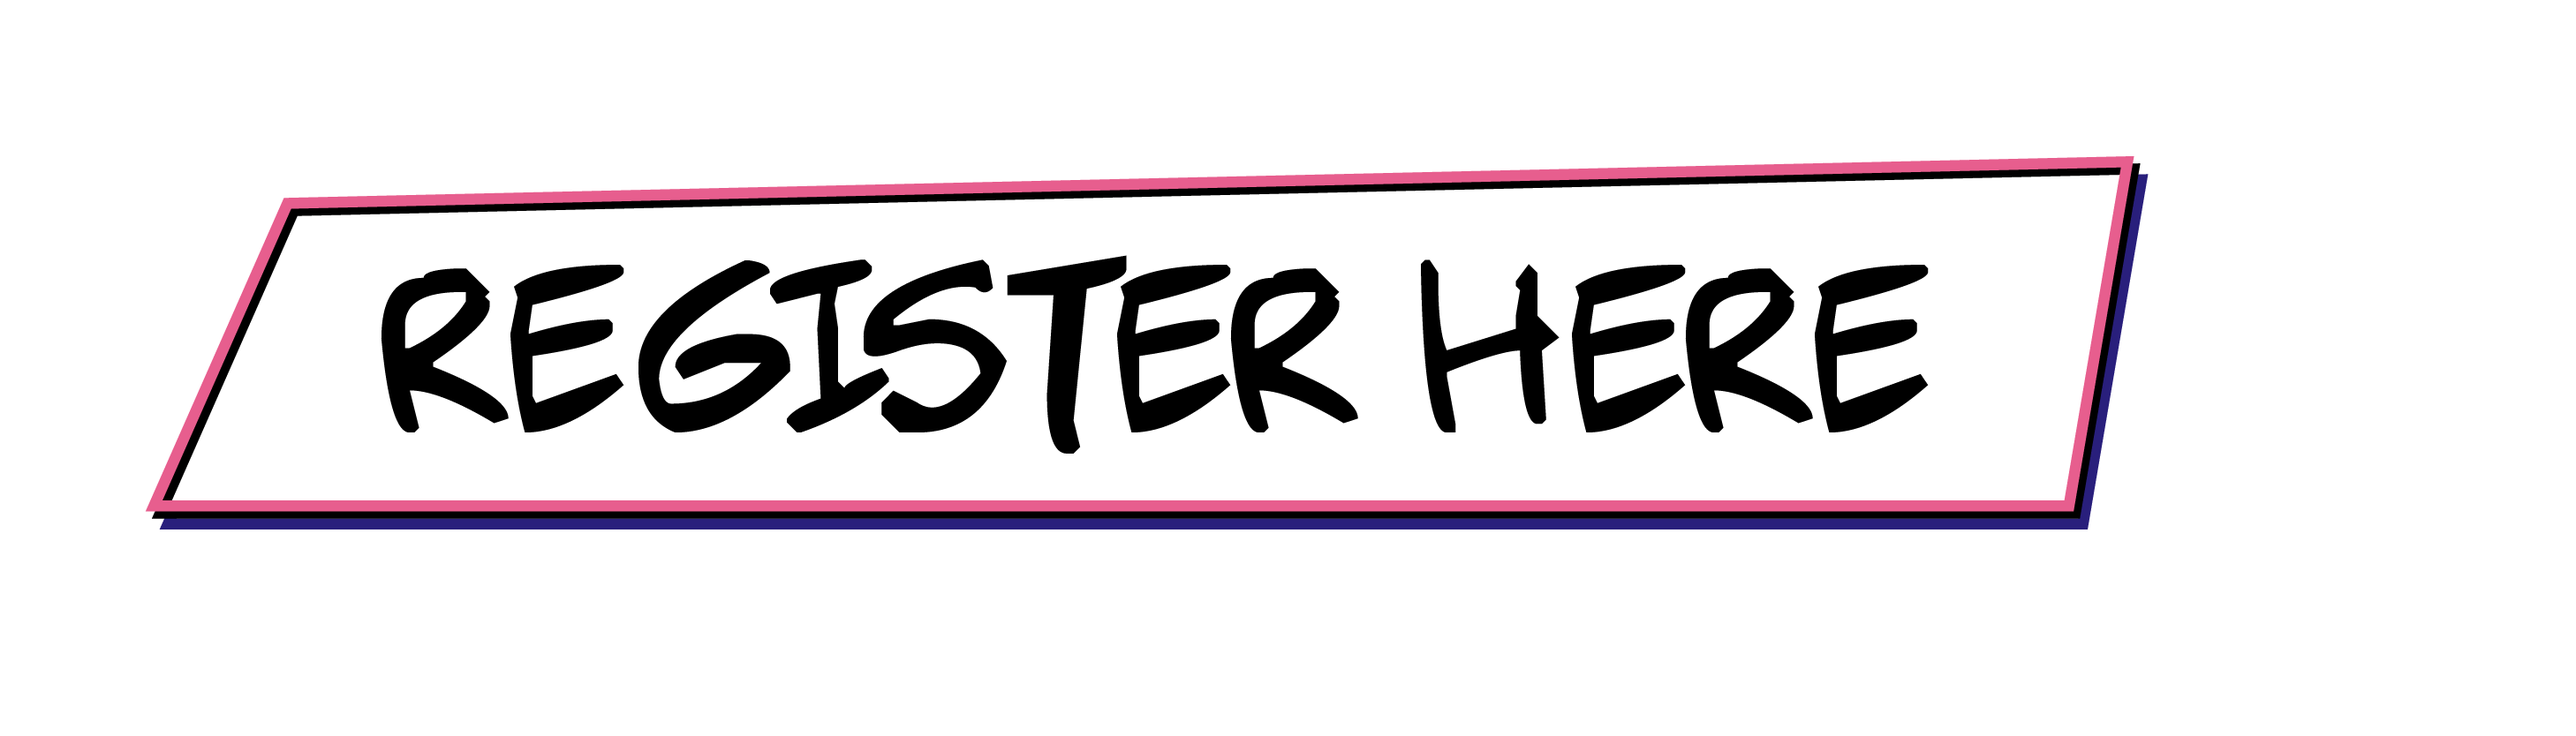
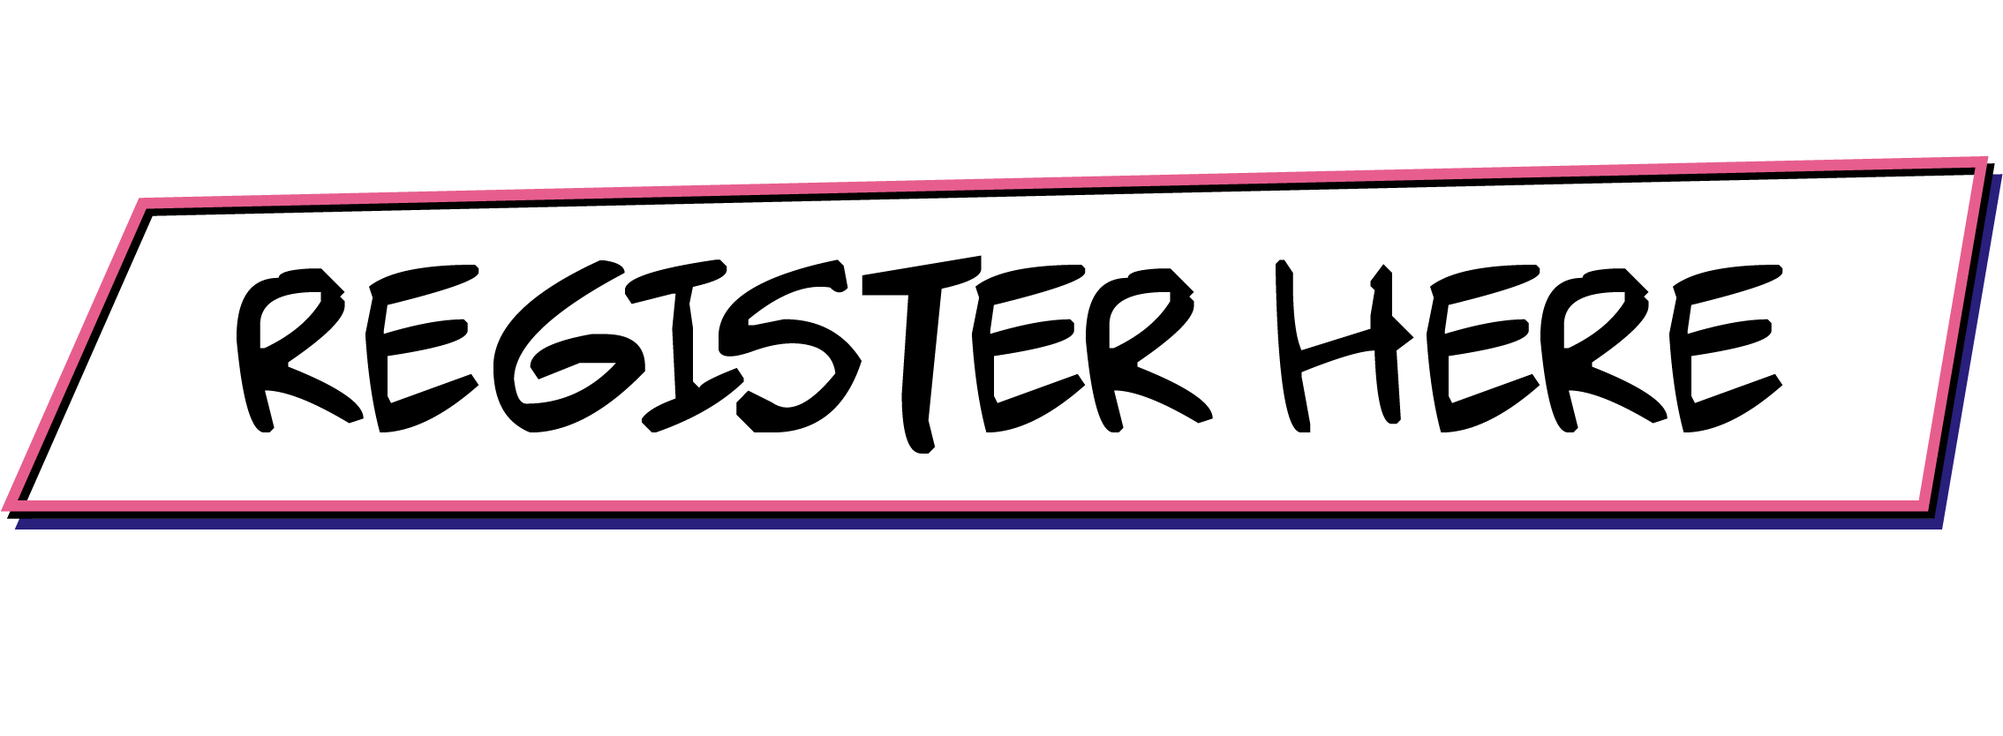
dsafda

Changed region(s): [[0.0, 0.1871, 1.0, 0.717]]

diff --git a/map.html b/map.html
@@ -10,21 +10,26 @@
     </head> 
 <body class="container-fluid p-0 d-flex flex-column">
     <div class="container-fluid p-0 d-flex flex-column">
-        <nav class="navbar bg-body-tertiary " id="navbar">
-            <div class="container p-0 m-0">
-                <div class="navbar d-flex m-1">
-                    <img class="col-3 img-fluid align-self-start" src="./CR.png" alt="Bootstrap" style="max-width:100%; height: auto;">
-                        <div class="d-flex justify-content-end">
-                            <a style="color: white; font-family: AdamWarren;"  href="./index.html" class="m-0 px-1" id="home"> Home </a>
-                            <a style="color: white; font-family: AdamWarren;"  href="./about.html" class="m-0 px-1" id="about"> About </a>
-                            <a style="color: white; font-family: AdamWarren;"  href="./schedule.html" class="m-0 px-1" id="Schedule"> Schedule </a>
-                            <a style="color: white; font-family: AdamWarren;"  href="./collaborators.html" class="m-0 px-1" id="collaborators"> Collaborators </a>
-                            <a style="color: white; font-family: AdamWarren;"  href="./team.html" class="m-0 px-1" id="Team"> Team </a>
-                            <a style="color: white; font-family: AdamWarren;"  href="https://bestcj.ro/" class="m-0" id="3,5"> 3,5% </a>
-                        </div>
+        <nav class="navbar navbar-expand-lg bg-body-tertiary">
+            <div class="container-fluid">
+                <a class="navbar-brand" href="#">
+                    <img class="nav-logo" src="./CR.png" alt="Bootstrap">
+                </a>
+                <button class="navbar-toggler" type="button" data-bs-toggle="collapse" data-bs-target="#navbarNavAltMarkup" aria-controls="navbarNavAltMarkup" aria-expanded="false" aria-label="Toggle navigation">
+                    <span class="navbar-toggler-icon"></span>
+                </button>
+                <div class="collapse justify-content-end navbar-collapse" id="navbarNavAltMarkup">
+                    <div class="navbar-nav">
+                        <a  class="nav-link navigation-tab" aria-current="page" href="./index.html" id="home"> Home </a>
+                        <a  class="nav-link navigation-tab" aria-current="page" href="./about.html" id="about"> About </a>
+                        <a  class="nav-link navigation-tab" aria-current="page" href="./schedule.html" id="Schedule"> Schedule </a>
+                        <a  class="nav-link navigation-tab" aria-current="page" href="./collaborators.html" id="collaborators"> Collaborators </a>
+                        <a  class="nav-link navigation-tab" aria-current="page" href="./team.html" id="Team"> Team </a>
+                        <a  class="nav-link navigation-tab" aria-current="page"  href="https://bestcj.ro/" id="3,5"> 3,5% </a>
                 </div>
+              </div>
             </div>
-        </nav>
+          </nav>
 <br>
 <img src="./comingsoon.png" class="img-fluid" style="max-width: 100%; height: auto;">
      
@@ -33,13 +38,12 @@
     
     
     
-    
-</body>
- <footer class=" text-center text-lg-center footer fixed-bottom">
+
+<footer class=" text-center text-lg-center footer fixed-bottom">
     <div class="d-flex flex-column p-3">
-        <div class="row justify-content-center align-items-center">
-            <img class="img-fluid d-flex col col-3 align-self-center align-items-center" src="./uT.png">
-            <div class="col-6 mb-4 mb-md-0">
+        <div class="row justify-content-center align-items-center mb-2">
+            <img class="img-fluid d-flex col col-3 align-self-center align-items-center footer-img" src="./uT.png">
+            <div class="col-md-3 col-6 mb-4 mb-md-0">
                 <ul class="list-unstyled mb-0">
                     <li>
                         <i class="fa fa-phone" style="color: white;"></i>
@@ -56,21 +60,25 @@
                     </li>
                 </ul>
             </div>
-            <img class="img-fluid d-flex col col-3 align-self-center align-items-center " src="./bEST-CJ.png">
+            <img class="img-fluid d-flex col col-3 align-self-center align-items-center footer-img" src="./bEST-CJ.png">
         </div>
-        <div class="d-flex  row p-0 justify-content-center">
-            <a href="https://www.facebook.com/BESTcluj" class="col-2">
-                <img class="img-fluid" src="./facebook-alb.png">   
+        <div class="d-flex row p-0 justify-content-center mb-2 logo-section">
+            <a href="https://www.facebook.com/BESTcluj" class="col-2 d-flex justify-content-center align-items-center">
+                <img class="img-fluid footer-logo" src="./facebook-alb.png">   
             </a>
-            <a class="col-2" href="https://www.instagram.com/best_clujnapoca/">
-                <img class="img-fluid " src="./instagram-alb.png">
+            <a class="col-2 d-flex justify-content-center align-items-center" href="https://www.instagram.com/best_clujnapoca/">
+                <img class="img-fluid  footer-logo " src="./instagram-alb.png">
             </a>
-            <a class="col-2" href=" https://www.linkedin.com/company/best-cluj-napoca">
-                <img class="img-fluid" src="./linkedin-alb.png">  
+            <a class="col-2 d-flex justify-content-center align-items-center" href=" https://www.linkedin.com/company/best-cluj-napoca">
+                <img class="img-fluid footer-logo" src="./linkedin-alb.png">  
             </a>
         </div>
     </div>
+    
 </footer>
+</body>
+ 
+
 <script src="https://cdn.jsdelivr.net/npm/bootstrap@5.3.2/dist/js/bootstrap.bundle.min.js"
         integrity="sha384-C6RzsynM9kWDrMNeT87bh95OGNyZPhcTNXj1NW7RuBCsyN/o0jlpcV8Qyq46cDfL"
         crossorigin="anonymous"></script>

diff --git a/index.html b/index.html
@@ -37,7 +37,7 @@
             <img src="./logo cr.png" class="img-fluid col  col-9 col-md-7" style="max-width: 100%; height: auto;"> 
             <img src="./data.png" class="img-fluid col  col-7 col-md-5" style=" max-width: 100%; height: auto;">
             <a href="https://docs.google.com/forms/d/e/1FAIpQLScqsXAUmzRWz612L6jmAorgrs1ulILOrHASERAlR2JZhbNHxA/viewform" target="_blank" style="display: flex; justify-content: center;">
-                <img class="img-fluid col-11 col-md-6" src="./register here.png" style=" max-width: 100%; height: auto;">
+                <img class="img-fluid col-11 col-md-6" src="./registerhere.png" style=" max-width: 100%; height: auto;">
             </a>
         </div>
         
@@ -50,7 +50,7 @@
         </div>
 
         <div class="row-12 d-flex flex-column mx-4 my-5 py-5 justify-content-center" id="textbox" >
-                <p class=" col-7 justify-content-center m-0 align-items-center text-center align-self-center" style="color: white; line-height: normal; padding-right: 10px;">
+                <p class="d-flex flex-column col-8 justify-content-center m-0 align-items-center text-center align-self-center px-4" style=" color: white; line-height: normal; ">
                     CodeRun is an IT marathon designed to innovate your experience around coding by challenging you to pass all the checkpoints throughout 
                         Cluj-Napoca.
                         Checkpoints are represented by partnering companies. To pass them you’ll have to complete various coding tasks and gain points. You can either try to #jointhecoderunners by yourself or with up to two more friends.

diff --git a/stylemap.css b/stylemap.css
@@ -2,9 +2,21 @@
     font-family: AdamWarren;
     src: url(./adamwarrenpro.ttf);
 }
-#navbar{
+
+
+.navbar{
     background-image: url(./navbar.png);
 }
+
+.nav-logo{
+    max-width: 150px;
+}
+
+.navigation-tab{
+    color: white;
+     font-family: AdamWarren;
+}
+
 
 body{
     margin: 0;
@@ -17,8 +29,28 @@ body{
     min-height: 100vh;
     
 }
-/* 
+
 .footer{
     background-image: url("./div.framer-u5253.png");
     background-size: cover;
-} */
+}
+
+.logo-section{
+    justify-content: center;
+    align-items: center;
+}
+
+.footer-img{
+    max-width: 125px;
+}
+
+.footer-logo{
+    max-width: 50px;
+}
+
+@media  screen and (min-width: 280px) {
+
+
+
+
+}

diff --git a/about.html b/about.html
@@ -51,7 +51,7 @@ CodeRun will have a maximum of 4 checkpoints that will check your coding skills,
     
     
     
-<footer class=" text-center text-lg-center footer fixed-bottom">
+<footer class=" text-center text-lg-center footer">
     <div class="d-flex flex-column p-3">
         <div class="row justify-content-center align-items-center mb-2">
             <img class="img-fluid d-flex col col-3 align-self-center align-items-center footer-img" src="./uT.png">

diff --git a/style.css b/style.css
@@ -95,9 +95,10 @@ body{
     max-width: 50px;
 }
 
-@media  screen and (max-width: 703px) {
+@media  screen and (max-width: 280px) {
     #textbox{
         height: 100%;
+        padding-bottom: 100px;
         background-image: url(./textbox.png);
         background-repeat: no-repeat;
         background-size: contain;
